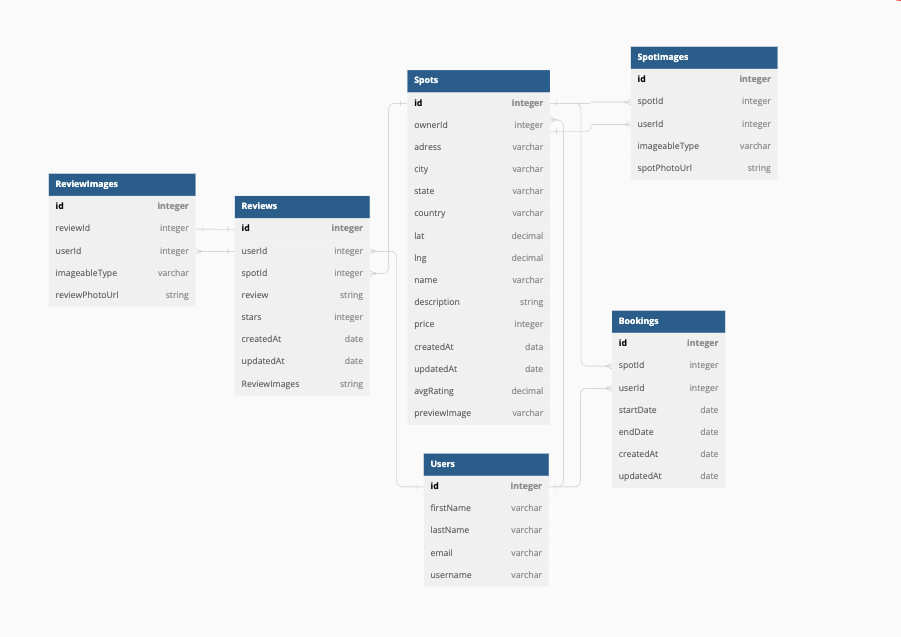
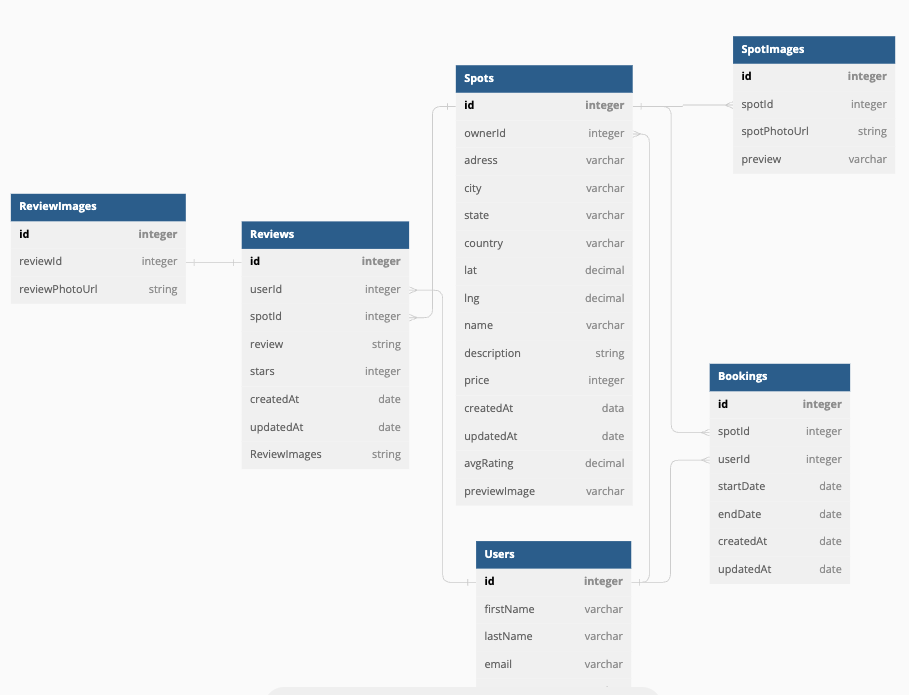
updated schema and readme

diff --git a/README.md b/README.md
@@ -46,7 +46,7 @@ Returns the information about the current user that is logged in.
 * Require Authentication: true
 * Request
   * Method: ? //GET
-  * URL: ? // /user/me
+  * URL: ? // /user/:userId
   * Body: none
 
 * Successful Response when there is a logged in user
@@ -153,7 +153,7 @@ user's information.
 * Require Authentication: false
 * Request
   * Method: ? //POST
-  * URL: ? // users/create
+  * URL: ? // /signup
   * Headers:
     * Content-Type: application/json
   * Body:
@@ -283,7 +283,7 @@ Returns all the spots owned (created) by the current user.
 * Require Authentication: true
 * Request
   * Method: ? GET
-  * URL: ? /users/me/spots
+  * URL: ? /spots/:userId
   * Body: none
 
 * Successful Response
@@ -388,7 +388,7 @@ Creates and returns a new spot.
 * Require Authentication: true
 * Request
   * Method: ? // POST
-  * URL: ? // /spots/create
+  * URL: ? // /spots
   * Headers:
     * Content-Type: application/json
   * Body:
@@ -462,7 +462,7 @@ Create and return a new image for a spot specified by id.
 * Require proper authorization: Spot must belong to the current user
 * Request
   * Method: ? PATCH
-  * URL: ? spots/:spotId/addImage
+  * URL: ? spots/:spotId/images
   * Headers:
     * Content-Type: application/json
   * Body:
@@ -508,7 +508,7 @@ Updates and returns an existing spot.
 * Require proper authorization: Spot must belong to the current user
 * Request
   * Method: ? PATCH
-  * URL: ? /spots/:id/update
+  * URL: ? /spots/:spotId
   * Headers:
     * Content-Type: application/json
   * Body:
@@ -594,7 +594,7 @@ Deletes an existing spot.
 * Require proper authorization: Spot must belong to the current user
 * Request
   * Method: ? DELETE
-  * URL: ? /spots/:spotId/delete
+  * URL: ? /spots/:spotId
   * Body: none
 
 * Successful Response
